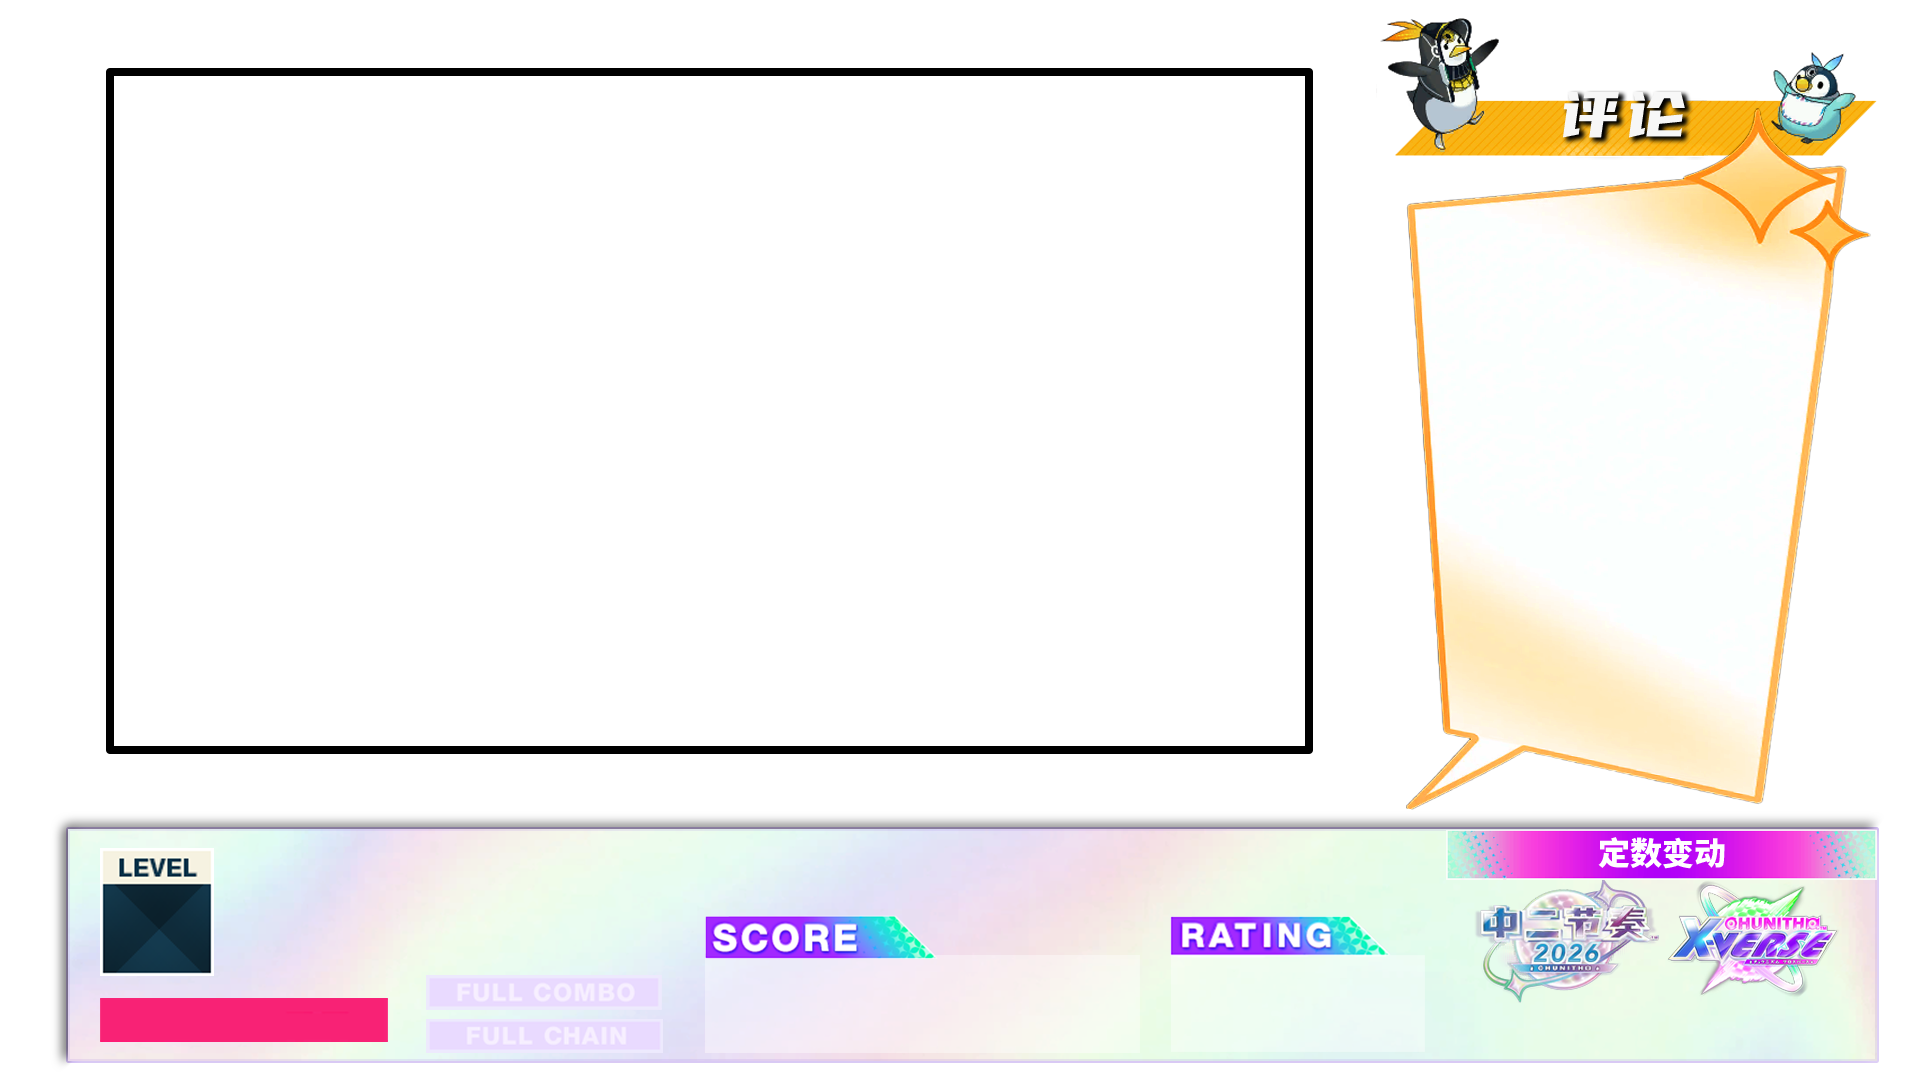
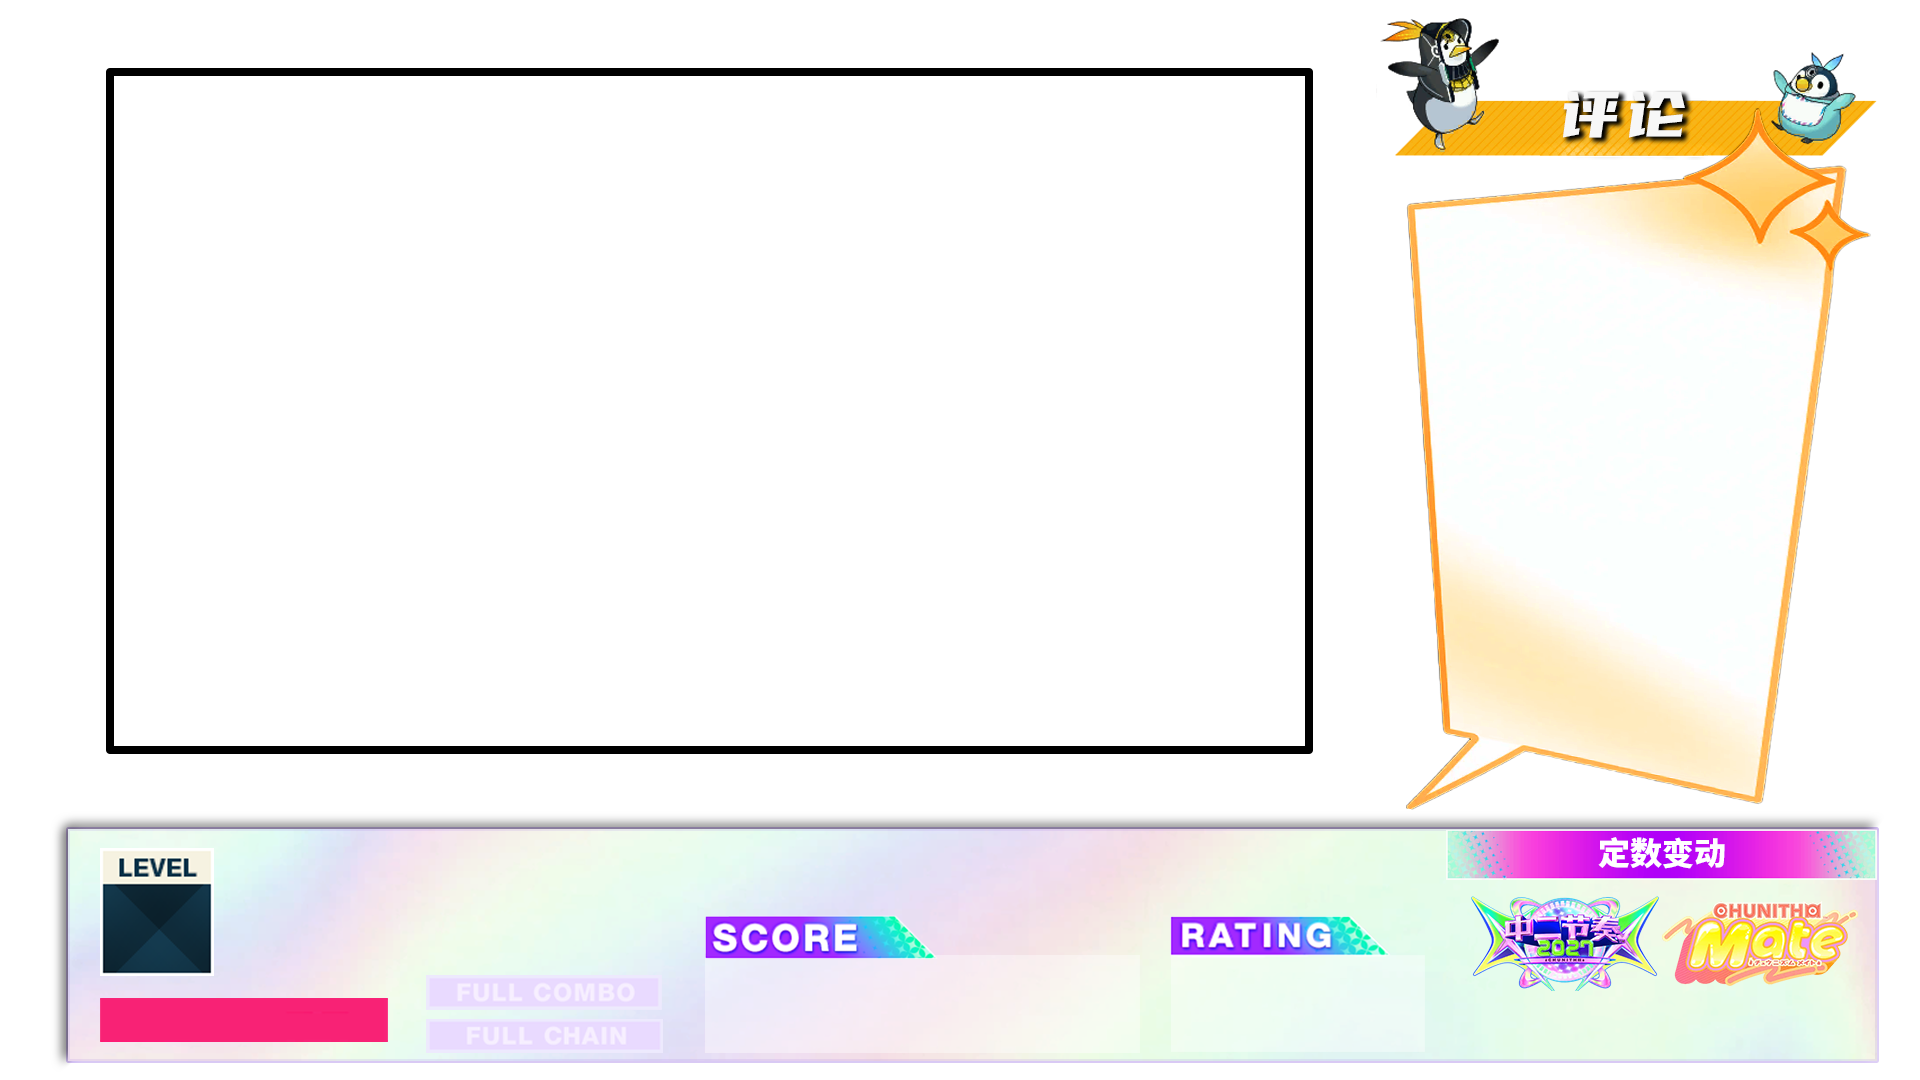
Update chuni verse image base and README.md

Changed region(s): [[0.75, 0.825, 0.9688, 0.9167]]

diff --git a/README.md b/README.md
@@ -9,12 +9,11 @@ Auto search and generate your best videos of MaimaiDX / Chunithm
 ## 更新速览
 
 `v1.2.6` 更新
-
-- 修复 Linux 下 AV1 谱面视频无法解码、生成黑屏却提示成功的问题；依赖固定为 OpenCV 4.14.0.94、NumPy 2.2.6、MoviePy 2.2.1。
-- 保留 Taichi GPU 片段合成，增加 GPU 后端选择。Linux 在独立进程中测试实际合成能力，CUDA 不可用时继续尝试 Vulkan；切换已启用的后端需重启应用。
-- 缓存重复读取的视频帧，减少 30fps 素材输出 60fps 时的重复定位开销。解码或编码失败时终止片段并清理临时文件，保留此前生成的成品。
-- 修复舞萌和中二成绩图片中游玩次数素材的大小写路径错误（#124）。
-- 新版 Windows x64 runtime 包已包含 Taichi 1.7.4 和 FFmpeg/FFprobe，无需另行安装 GPU 组件。拼接仍优先尝试硬件编码，失败时回退软件编码。
+- 更新了部分图片素材，现在生成中二节奏模板将展示`中二节奏2027`和`CHUNITHM Mate`定数变动
+- 缓存重复读取的视频帧，减少 30fps 素材输出 60fps 时的重复定位开销。
+- 为Taichi GPU 片段合成增加 GPU 后端选择。
+- 修复 Linux 下 AV1 谱面视频无法解码、生成黑屏却提示成功的问题；固定OpenCV和NumPy依赖以临时解决该问题（#123）。
+- 修复Linux环境下，舞萌和中二成绩图片中游玩次数素材的大小写路径错误（#124）。
 
 `v1.2.5` 开发版本更新
 
@@ -31,48 +30,6 @@ Auto search and generate your best videos of MaimaiDX / Chunithm
 - 🛠 修复了在特定导入模式下，B50筛选条件不生效的bug；
 - 🛠 移除了maimai booklet导入方式的支持。
 
-`v1.2.3` 开发版本更新
-
-以下功能翻新来自@[奕凌Yelon](https://github.com/YelonNotXTD)
-
-- ✨ **新增数据源**: 现在我们有自己的书签页工具Mai-gen Booklet！这可以更方便的读取日服/国际服官网的全部成绩并灵活的筛选B50，具体导入教学见创建存档页面。
-- 🛠 **修复数据源**：现在又可以通过dxrating.net导出的JSON源代码来创建三服B50存档了！
-- 🎚 新数据源？: 有神秘版本的日服？联系我们，或许可以从他们的网站上帮你筛选B50...
-- 🎚 功能移除预告: 考虑到maimai booklet操作繁琐、作为外部工具不稳定、且有**其他问题**，我们会在未来的版本中移除对其数据的支持, 但这不会影响旧版本已导入的存档。
-
-`v1.2.2` 开发版本更新
-
-以下功能修复来自@[奕凌Yelon](https://github.com/YelonNotXTD)
-
-- ✨ **新增数据源**：现在支持通过maimai booklet工具从官网导出所有成绩来新建存档了！在该导入方式下，可以自定义B15的版本与成绩的筛选方式，从而支持国际服/日服数据源的AP50等特殊生成。具体方法请参考页面内说明。
-- 🛠 **修复数据源**：现在又可以通过官网でらっくすrating界面的HTML源代码来创建国际服/日服B50存档了！
-- 🎚 **小巧思**：在生成完整视频时，现在可以勾选新的选项来只生成开场和结尾片段。适用于在填写心得时已经生成了所有谱面的单独片段的用户。
-
-`v1.2.1` Bug修复：
-- 🛠 修复了在某些系统环境下，生成视频时出现`MoviePy error: failed to read the first frame of video file black_bg.mp4 `的错误
-- 🛠 修复了在macOS下，数据库路径解析和命令行工具调用不稳定的问题 @[RararXD](https://github.com/RararXD)
-- 🛠 修复了在勾选“启用gpu加速合成”后生成视频，得到的完整视频中音画不同步的问题
-- 其他若干有关UI表现bug修复，详见release日志
-
-以下贡献来自@[Blueteemo](https://github.com/Blueteemo):
-
-- 🛠 修复了在勾选“启用gpu加速合成”后，无法正确检测部分NVENC编码器的问题
-- 🛠 修复了Windows路径中包含中文时，`cv2.imread()` 无法正确读取文件的问题
-- 🎚 现在允许设置输出视频的帧率，默认输出视频帧率提高到60fps
-
-注意：升级到 v1.2.6 时请使用配套运行环境。先将原 `runtime` 文件夹改名留存，再解压新版运行环境包的全部内容到应用根目录，避免新旧 DLL 和依赖混用。v1.2.6 runtime 已包含 Taichi；源码安装可使用 `python -m pip install -r requirements-gpu.txt`，不安装 GPU 可选组件时仍可使用 CPU 渲染。
-
-如果使用源代码安装，请注意v1.2版本推荐使用ffmpeg版本==7.1，ffmpeg版本可能影响GPU加速时的硬件编码器兼容性。
-
----
-
-`v1.1` 开发版本更新：
-- ✨ **文字渲染优化**：现在支持多语言智能换行、描边和（基于Unicode的）Emoji 渲染
-- ✨ **手动填写模式**：在「编辑自定义分表」页面新增手动填写模式，允许用户完全自定义乐曲元数据和成绩信息
-    - 支持上传自定义曲绘（仅 maimai）
-    - 卡片式预览列表，直观展示曲绘和记录信息
-- 🛠 **曲绘管理优化**：现在将自动在后台抓取存档曲绘，生成成绩图片时，自定义曲绘优先级会大于默认远端获取。同时，修复了若干UI体验的Bug
-
 ---
 
 ## 快速开始
@@ -84,7 +41,7 @@ Auto search and generate your best videos of MaimaiDX / Chunithm
     - 双击`start.bat`文件启动应用。
     - 请不要使用旧版本的runtime运行环境，其缺少新版本的依赖
 - 请注意：**打包版本仅支持Windows10及以上操作系统**
-- `macOS` 用户请使用源代码方式启动，当前仓库代码可运行在 macOS 上，但 Release 打包运行环境仍仅提供 Windows 版本。
+- `macOS`/`Linux` 用户请使用源代码方式启动, Release 打包运行环境仅提供 Windows 版本。
 - 首次启动时，如果没有立刻弹出浏览器窗口，请检查控制台，如果要求输入Email，请直接回车跳过即可。
 - 遇到问题请参考[常见问题](#常见问题)一节。
 
@@ -134,12 +91,6 @@ Auto search and generate your best videos of MaimaiDX / Chunithm
 
 - [x] MuNET导出的成绩数据JSON（有没有好心观众提供一个网站？）
 
-### 流媒体源支持情况
-
-- [x] [youtube](https://www.youtube.com/)：支持 YouTube Data API v3 和 pytubefix 两种搜索方式
-
-- [x] [bilibili](https://www.bilibili.com/)
-
 ### 已实现特性
 
 - [x] 可交互的全流程界面（streamlit）
@@ -170,7 +121,7 @@ Auto search and generate your best videos of MaimaiDX / Chunithm
     ```bash
     pip install -r requirements.txt
     ```
-    > GPU 加速推荐 Python 3.10–3.12，使用 `python -m pip install -r requirements-gpu.txt` 安装已验证的组合。Linux 的 AV1 解码需要 OpenCV 4.14.0.94；不要将其自动升级到 5.0.0.93。
+    > GPU 加速推荐 Python 3.10–3.12，使用 `python -m pip install -r requirements-gpu.txt` 安装已验证的组合。Linux 的 AV1 解码需要 OpenCV 4.14.0.94；请不要将其自动升级到 5.0.0 以上。
 
 3. 安装ffmpeg（如果从Release包中下载，则无需此步骤）：
 
@@ -195,7 +146,7 @@ Auto search and generate your best videos of MaimaiDX / Chunithm
     ```
     在网页运行程序时，请保持终端窗口打开，依照页面指引使用即可
 
-    > macOS 建议直接使用当前虚拟环境对应的解释器执行依赖安装，例如：`python -m pip install -r requirements.txt`
+    > macOS/Linux 建议直接使用当前虚拟环境对应的解释器执行依赖安装，例如：`python -m pip install -r requirements.txt`
 
 ---
 
